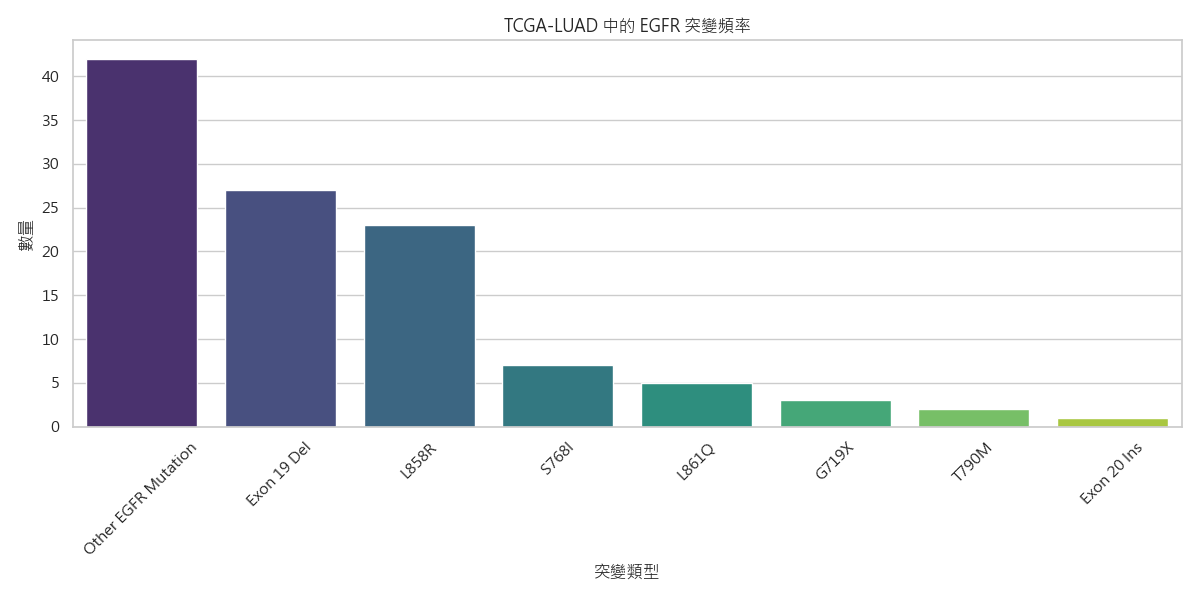
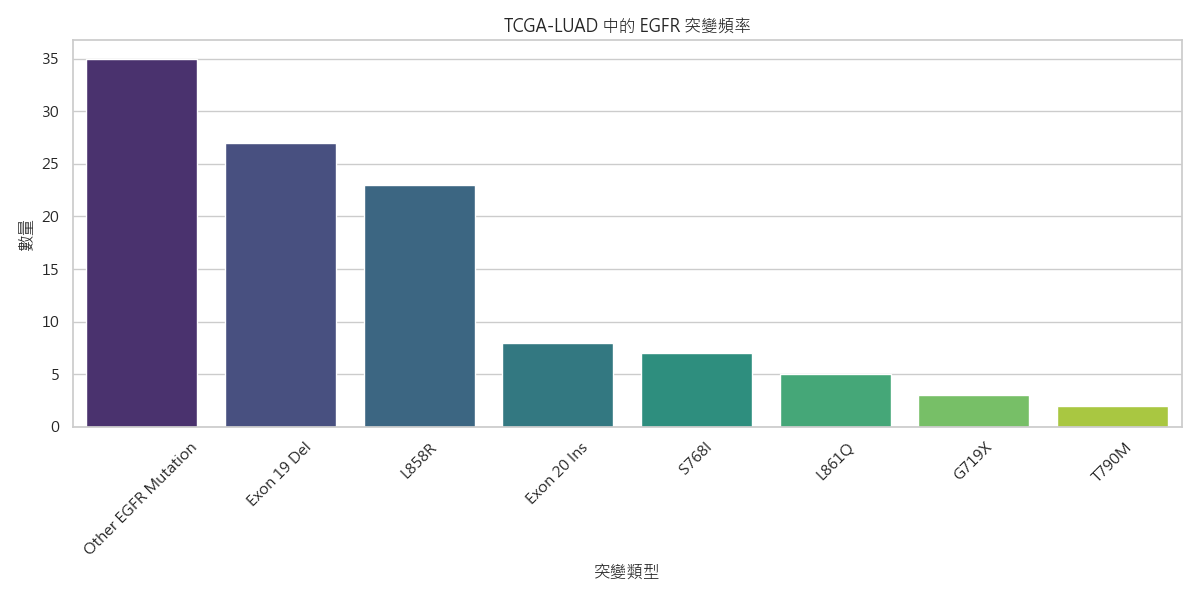
feat: Refine EGFR mutation classification to include Exon 20 Ins and enhance mutation co-occurrence analysis and reporting.

diff --git a/analyze_cooccurrence.py b/analyze_cooccurrence.py
@@ -26,38 +26,38 @@ def analyze_cooccurrence(df_clean):
     print("=" * 50)
     
     # Step 1: 按病人分組，每個病人有哪些突變
-    # 注意：這裡假設 HGVSp_Short 欄位包含 p.L858R 這樣的字串
-    patient_mutations = df_clean.groupby('Tumor_Sample_Barcode')['HGVSp_Short'].apply(set).reset_index()
-    total_patients = len(patient_mutations)
+    # 我們同時收集 HGVSp_Short (用於細節) 和 Mutation_Group (用於統計)
+    patient_data = df_clean.groupby('Tumor_Sample_Barcode').agg({
+        'HGVSp_Short': set,
+        'Mutation_Group': set
+    }).reset_index()
+    
+    total_patients = len(patient_data)
     
     print(f" 共有 {total_patients} 位病人的腫瘤樣本被檢測出帶有 EGFR 基因突變")
     
-    # Step 2: 計算單獨突變數量
-    all_mutations = []
-    for mutations in patient_mutations['HGVSp_Short']:
-        all_mutations.extend(mutations)
+    # Step 2: 計算突變群組數量 (Mutation Group Counts)
+    # 這樣才能跟 visualize_results.py 的圖表對上 (圖表是畫 Group)
+    all_groups = []
+    for groups in patient_data['Mutation_Group']:
+        all_groups.extend(groups)
     
-    mutation_counts = Counter(all_mutations)
-    print("\n 單獨突變統計:")
-    for mutation, count in mutation_counts.most_common(5):
+    group_counts = Counter(all_groups)
+    print("\n 突變群組統計 (對應圖表):")
+    for group, count in group_counts.most_common(10):
         percentage = (count / total_patients) * 100
-        # Custom label for Exon 19 Deletion if needed, or just print as is
-        display_name = mutation
-        if "del" in mutation and "E746" in mutation:
-             display_name = "Exon 19 Deletion (p.E746_A750del)"
-        
-        print(f"  {display_name:30s}: {count:3d} 例 ({percentage:5.1f}%)")
+        print(f"  {group:30s}: {count:3d} 例 ({percentage:5.1f}%)")
     
     # Step 3: 找 L858R + T790M 組合 核心！
     # 為了兼容性，我們同時檢查有 'p.' 和沒有 'p.' 的情況，或者直接檢查關鍵字
-    l858r_t790m_cases = patient_mutations[
-        patient_mutations['HGVSp_Short'].apply(
+    l858r_t790m_cases = patient_data[
+        patient_data['HGVSp_Short'].apply(
             lambda x: any('L858R' in m for m in x) and any('T790M' in m for m in x)
         )
     ]
     
-    l858r_count = len(patient_mutations[patient_mutations['HGVSp_Short'].apply(lambda x: any('L858R' in m for m in x))])
-    t790m_count = len(patient_mutations[patient_mutations['HGVSp_Short'].apply(lambda x: any('T790M' in m for m in x))])
+    l858r_count = len(patient_data[patient_data['HGVSp_Short'].apply(lambda x: any('L858R' in m for m in x))])
+    t790m_count = len(patient_data[patient_data['HGVSp_Short'].apply(lambda x: any('T790M' in m for m in x))])
     combo_count = len(l858r_t790m_cases)
     
     print(f"\n 關鍵組合統計:")
@@ -81,7 +81,7 @@ def analyze_cooccurrence(df_clean):
     # 為了兼容 visualize_results.py，我們也產生舊格式的 patient_analysis.csv
     # 重新建構舊格式的 status
     old_results = []
-    for idx, row in patient_mutations.iterrows():
+    for idx, row in patient_data.iterrows():
         muts = row['HGVSp_Short']
         pid = row['Tumor_Sample_Barcode']
         has_sens = any(m for m in muts if 'L858R' in m or 'Exon 19' in m or 'del' in str(m).lower()) # 簡化判斷

diff --git a/clean_data.py b/clean_data.py
@@ -2,6 +2,7 @@ import pandas as pd
 import re
 import os
 import yaml
+from tqdm import tqdm
 
 # --- Configuration ---
 def load_config():
@@ -40,83 +41,8 @@ def classify_mutation(row):
         return "C797S"
     
     # 3. Exon 20 Insertion
-    if 'ins' in hgvsp and ('763' in hgvsp or '770' in hgvsp):
-        return "Exon 20 Ins"
-
-    # 4. Other EGFR Mutations
-    return "Other EGFR Mutation"
-
-def process_maf():
-    print(f"開始讀取 {INPUT_FILE}...")
-    
-    use_cols = [
-        'Hugo_Symbol',
-        'HGVSp_Short',
-        'Variant_Classification',
-        'Tumor_Sample_Barcode',
-        'Chromosome',
-        'Start_Position'
-    ]
-    
-    try:
-        df = pd.read_csv(INPUT_FILE, sep='\t', comment='#', usecols=use_cols, low_memory=False)
-    except FileNotFoundError:
-        print(f"錯誤：找不到檔案 {INPUT_FILE}。")
-        return
-
-    print(f"原始數據包含 {len(df)} 個突變。")
-
-    # Filter for EGFR
-    egfr_df = df[df['Hugo_Symbol'] == 'EGFR'].copy()
-    print(f"已過濾 EGFR 突變：{len(egfr_df)}")
-
-    if len(egfr_df) == 0:
-        print("警告：未發現 EGFR 數據。")
-        return
-
-import pandas as pd
-import re
-import os
-import yaml
-
-# --- Configuration ---
-def load_config():
-    with open("config.yaml", "r") as f:
-        return yaml.safe_load(f)
-
-config = load_config()
-INPUT_FILE = config['paths']['raw_maf']
-OUTPUT_FILE = config['paths']['cleaned_csv']
-
-def classify_mutation(row):
-    """
-    Classify mutation type based on HGVSp_Short.
-    """
-    hgvsp = str(row['HGVSp_Short'])
-    
-    if pd.isna(hgvsp) or hgvsp == 'nan':
-        return "Unknown"
-
-    # 1. Sensitizing Mutations
-    if 'L858R' in hgvsp:
-        return "L858R"
-    if re.search(r'(E746|L747|T751|A750|S752).*del', hgvsp): 
-        return "Exon 19 Del"
-    if 'G719' in hgvsp:
-        return "G719X"
-    if 'L861Q' in hgvsp:
-        return "L861Q"
-    if 'S768I' in hgvsp:
-        return "S768I"
-
-    # 2. Resistance Mutations
-    if 'T790M' in hgvsp:
-        return "T790M"
-    if 'C797S' in hgvsp:
-        return "C797S"
-    
-    # 3. Exon 20 Insertion
-    if 'ins' in hgvsp and ('763' in hgvsp or '770' in hgvsp):
+    # Includes 'ins' or 'dup' in the range of amino acids 763-775
+    if ('ins' in hgvsp or 'dup' in hgvsp) and re.search(r'(76[3-9]|77[0-5])', hgvsp):
         return "Exon 20 Ins"
 
     # 4. Other EGFR Mutations
@@ -152,7 +78,8 @@ def process_maf():
 
     # Apply classification
     print("正在分類突變...")
-    egfr_df['Mutation_Group'] = egfr_df.apply(classify_mutation, axis=1)
+    tqdm.pandas(desc="Classifying")
+    egfr_df['Mutation_Group'] = egfr_df.progress_apply(classify_mutation, axis=1)
 
     # Save result
     egfr_df.to_csv(OUTPUT_FILE, index=False)

diff --git a/inspect_others.py b/inspect_others.py
@@ -9,7 +9,12 @@ other_mutations = df[df['Mutation_Group'] == "Other EGFR Mutation"]
 # Get unique HGVSp_Short values
 unique_others = other_mutations['HGVSp_Short'].unique()
 
+# Save to CSV
+other_counts = other_mutations['HGVSp_Short'].value_counts()
+output_path = "results/other_mutations_list.csv"
+other_counts.to_csv(output_path, header=["Count"])
+
 print(f"Total 'Other' mutations: {len(other_mutations)}")
-print("Unique protein changes in 'Other EGFR Mutation':")
-for mutation in unique_others:
-    print(f"- {mutation}")
+print(f"Detailed list saved to: {output_path}")
+print("\nTop 10 'Other' mutations:")
+print(other_counts.head(10))

diff --git a/test_classify.py b/test_classify.py
@@ -1,0 +1,12 @@
+import re
+
+def classify(hgvsp):
+    hgvsp = str(hgvsp)
+    if ('ins' in hgvsp or 'dup' in hgvsp) and re.search(r'(76[3-9]|77[0-5])', hgvsp):
+        return "Exon 20 Ins"
+    return "Other"
+
+test_cases = ["p.A767_V769dup", "p.H773dup", "p.D770_N771insN", "p.L858R"]
+
+for t in test_cases:
+    print(f"{t}: {classify(t)}")

diff --git a/README.md b/README.md
@@ -37,6 +37,7 @@ cd egfr-analysis
 *   `matplotlib`: 繪圖基礎
 *   `seaborn`: 進階繪圖
 *   `pyyaml`: 讀取設定檔
+*   `tqdm`: 進度條顯示
 
 #### 安裝依賴套件
 
@@ -505,8 +506,10 @@ def main():
 *   **`Dockerfile`**: **容器定義檔**。定義如何建立 Docker 映像，包含 Python 環境、依賴套件安裝等步驟。
 *   **`docker-compose.yml`**: **容器編排檔**。簡化 Docker 容器的啟動與管理，包含 volume 掛載設定。
 *   **`.dockerignore`**: **排除清單**。指定哪些檔案不需要複製到 Docker 映像中，減少映像大小。
-*   **`DOCKER_QUICKSTART.md`**: **快速入門指南**。5 分鐘快速上手 Docker 執行的逐步說明。
-*   **`DOCKER_GUIDE.md`**: **完整 Docker 指南**。包含詳細操作說明與常見問題排解。
+
+### 輔助工具
+*   **`inspect_others.py`**: **檢查工具**。用來查看被歸類為 "Other EGFR Mutation" 的具體突變內容，幫助優化分類邏輯。
+*   **`test_classify.py`**: **測試單元**。用來測試突變分類函式 (`classify_mutation`) 是否正確運作的小程式。
 
 
 
